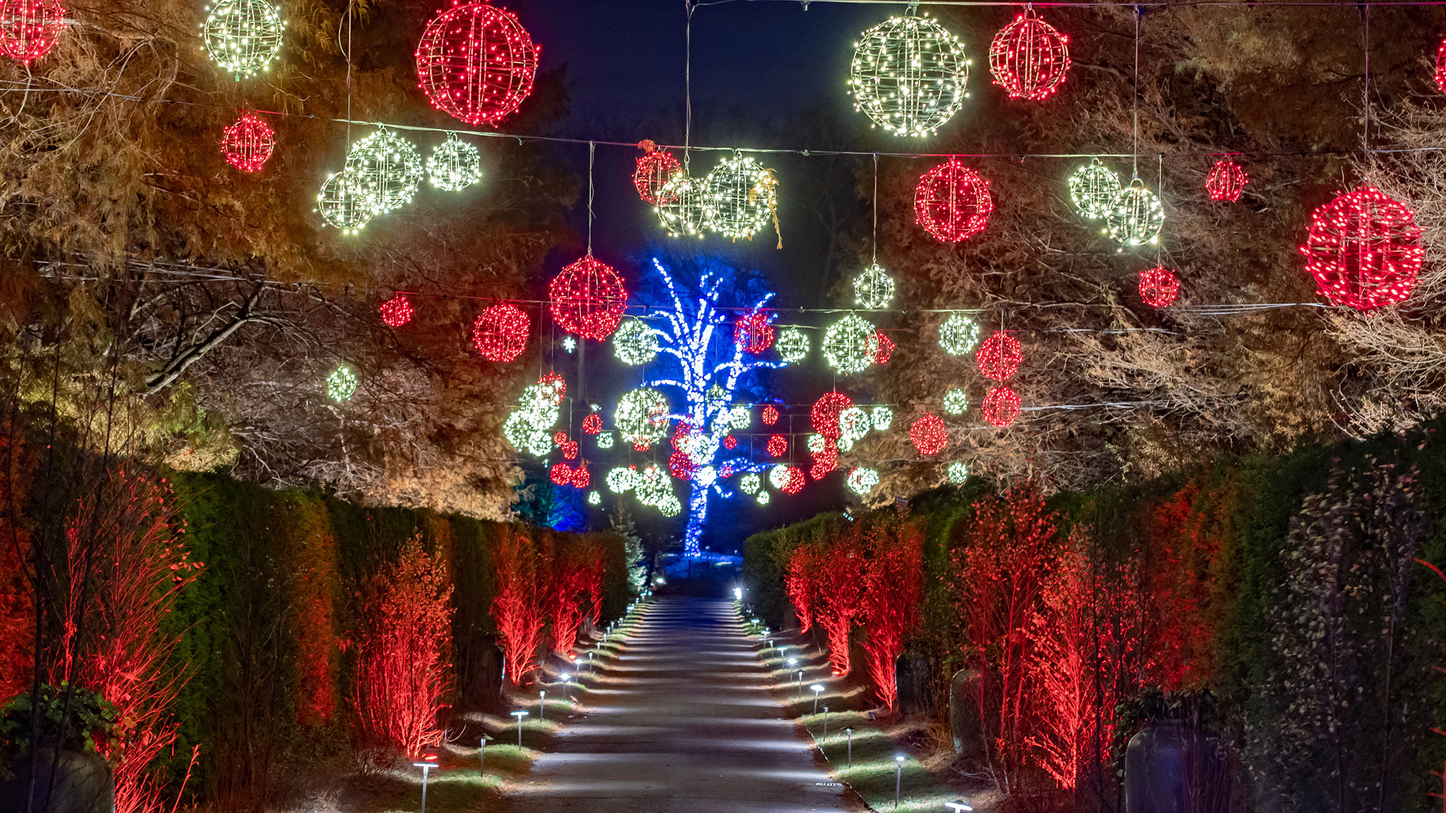
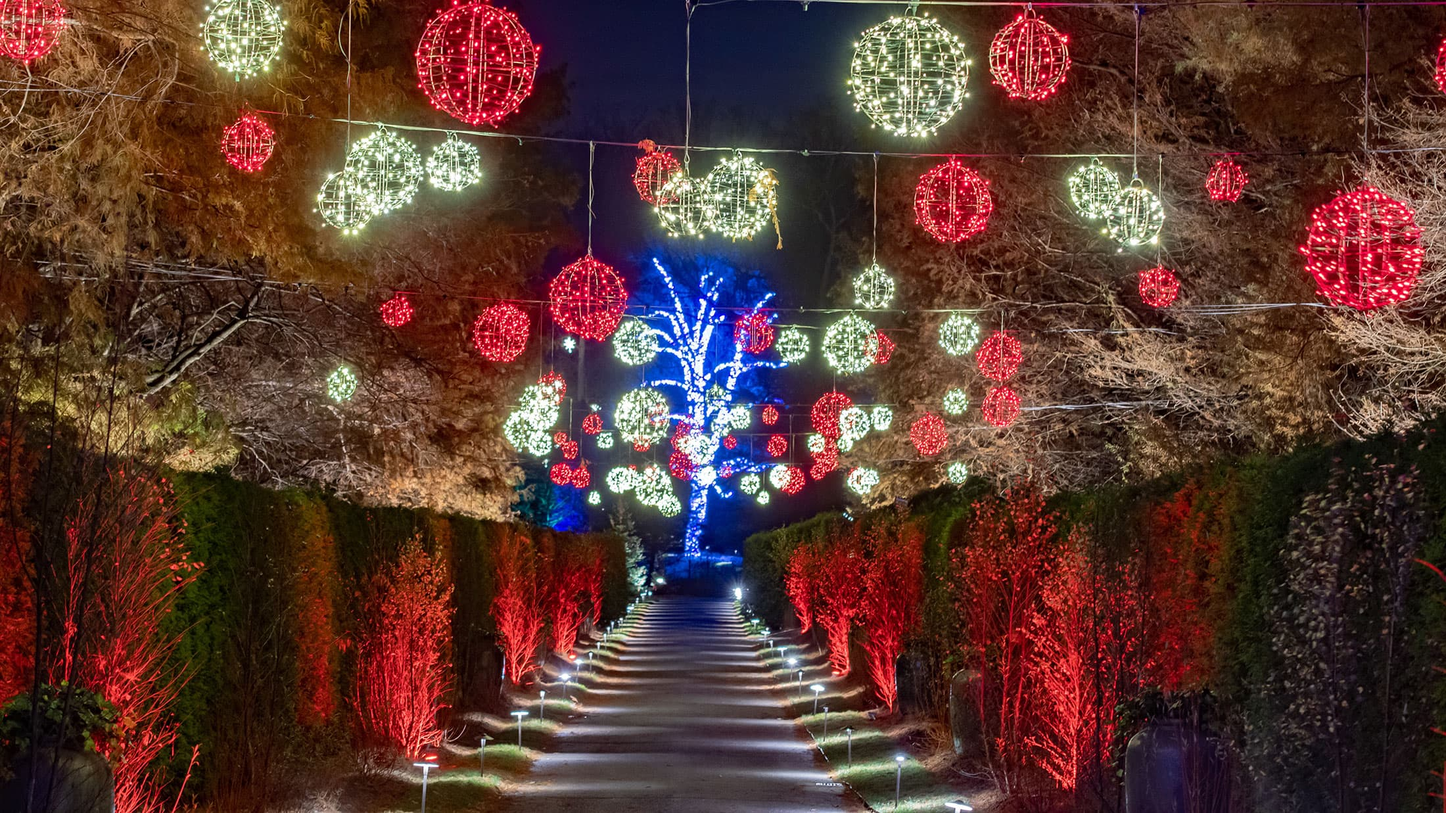
chore: optim image

diff --git a/ui/index.html b/ui/index.html
@@ -83,7 +83,7 @@
     $('.content').css('background-size', 'cover')
 
     // song tracking
-    var music = new WebSocket("ws://devd.io:8080");
+    var music = new WebSocket("ws://music.jaredallard.me");
     music.onmessage = function (event) {
       var music = null;
       try {
